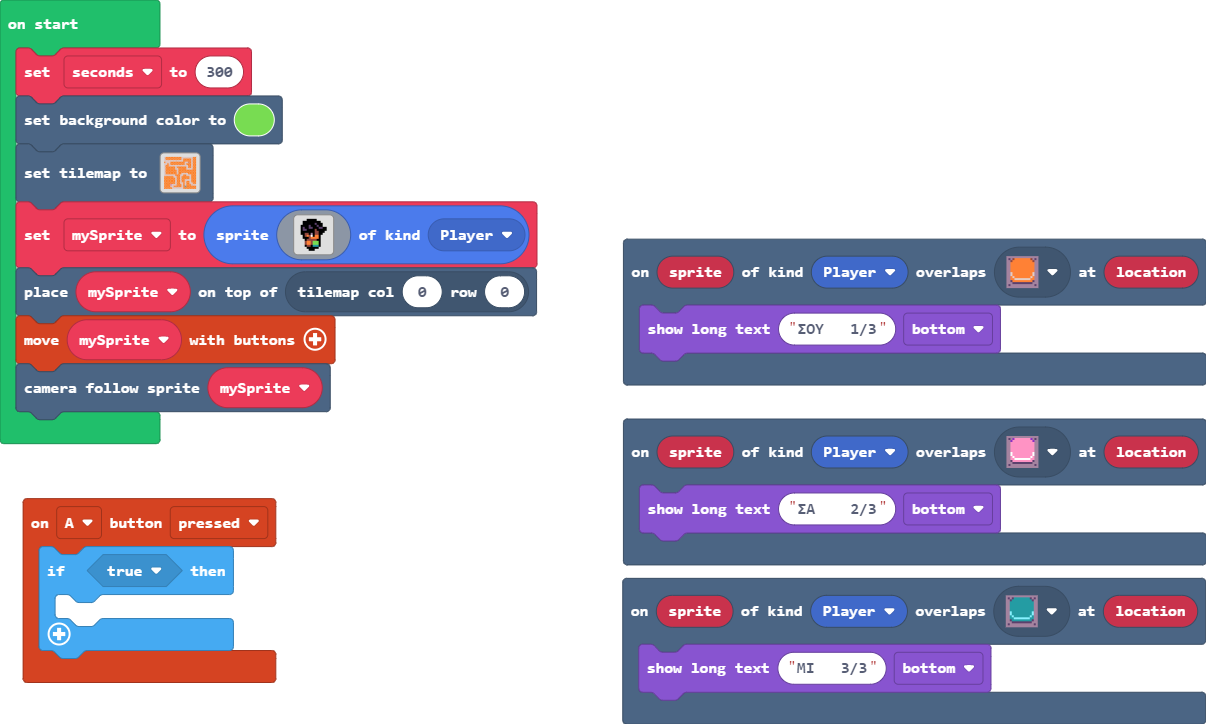
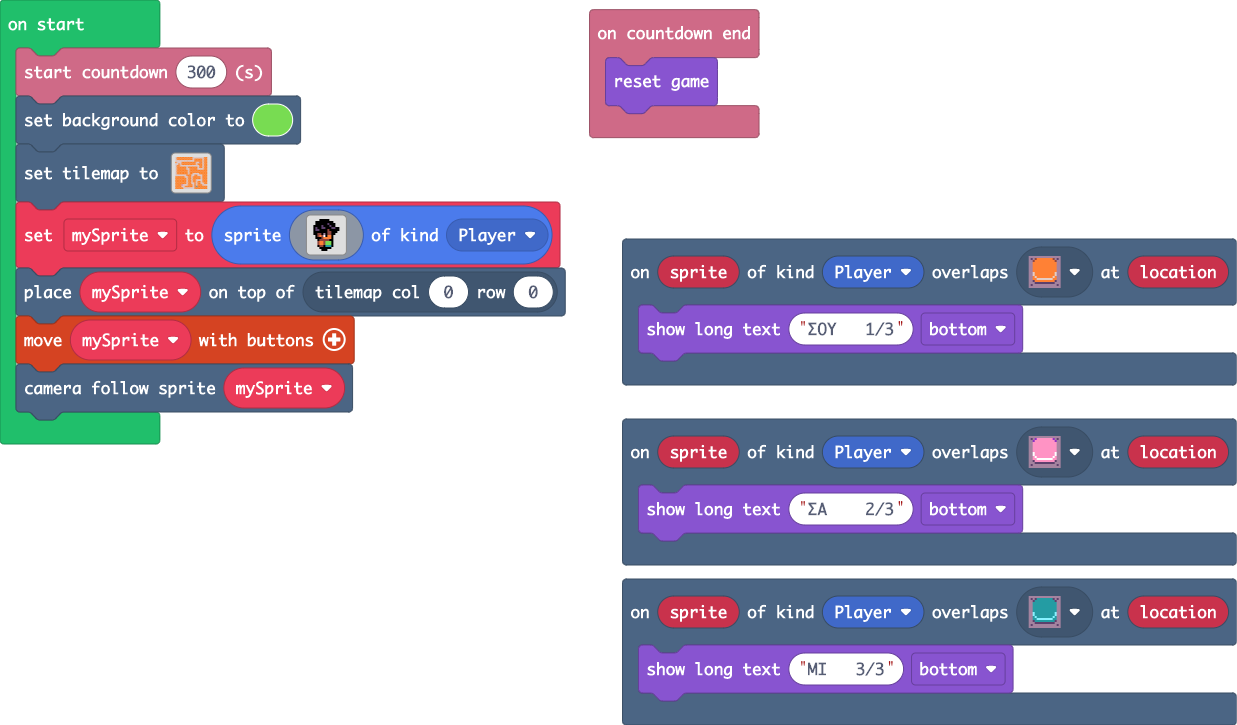
Update main.blocks, main.ts, tilemap.g.jres, tilemap.g.ts

diff --git a/tilemap.g.ts b/tilemap.g.ts
@@ -28,6 +28,25 @@ namespace myTiles {
 2222..22222.2.222222
 22222.......22222222
 `, [myTiles.transparency16,sprites.dungeon.floorLight0,sprites.dungeon.hazardLava0,sprites.dungeon.buttonOrange,sprites.dungeon.buttonTeal,sprites.dungeon.buttonPink], TileScale.Sixteen);
+            case "level2":
+            case "level2":return tiles.createTilemap(hex`1000100000000000000000000000000000000000000000000000000000000000000000000000000000000000000000000000000000000000000000000000000000000000000000000000000000000000000000000000000000000000000000000000000000000000000000000000000000000000000000000000000000000000000000000000000000000000000000000000000000000000000000000000000000000000000000000000000000000000000000000000000000000000000000000000000000000000000000000000000000000000000000000000000000000000000000000000000000000000000000000000000000000000000000000000000000000000`, img`
+. . . . . . . . . . . . . . . . 
+. . . . . . . . . . . . . . . . 
+. . . . . . . . . . . . . . . . 
+. . . . . . . . . . . . . . . . 
+. . . . . . . . . . . . . . . . 
+. . . . . . . . . . . . . . . . 
+. . . . . . . . . . . . . . . . 
+. . . . . . . . . . . . . . . . 
+. . . . . . . . . . . . . . . . 
+. . . . . . . . . . . . . . . . 
+. . . . . . . . . . . . . . . . 
+. . . . . . . . . . . . . . . . 
+. . . . . . . . . . . . . . . . 
+. . . . . . . . . . . . . . . . 
+. . . . . . . . . . . . . . . . 
+. . . . . . . . . . . . . . . . 
+`, [myTiles.transparency16], TileScale.Sixteen);
         }
         return null;
     })

diff --git a/main.ts b/main.ts
@@ -1,10 +1,8 @@
 scene.onOverlapTile(SpriteKind.Player, sprites.dungeon.buttonPink, function (sprite, location) {
     game.showLongText("ΣΑ    2/3", DialogLayout.Bottom)
 })
-controller.A.onEvent(ControllerButtonEvent.Pressed, function () {
-    if (true) {
-    	
-    }
+info.onCountdownEnd(function () {
+    game.reset()
 })
 scene.onOverlapTile(SpriteKind.Player, sprites.dungeon.buttonOrange, function (sprite, location) {
     game.showLongText("ΣΟΥ   1/3", DialogLayout.Bottom)
@@ -12,7 +10,7 @@ scene.onOverlapTile(SpriteKind.Player, sprites.dungeon.buttonOrange, function (s
 scene.onOverlapTile(SpriteKind.Player, sprites.dungeon.buttonTeal, function (sprite, location) {
     game.showLongText("ΜΙ   3/3", DialogLayout.Bottom)
 })
-let seconds = 300
+info.startCountdown(300)
 scene.setBackgroundColor(7)
 tiles.setTilemap(tilemap`level1`)
 let mySprite = sprites.create(img`
